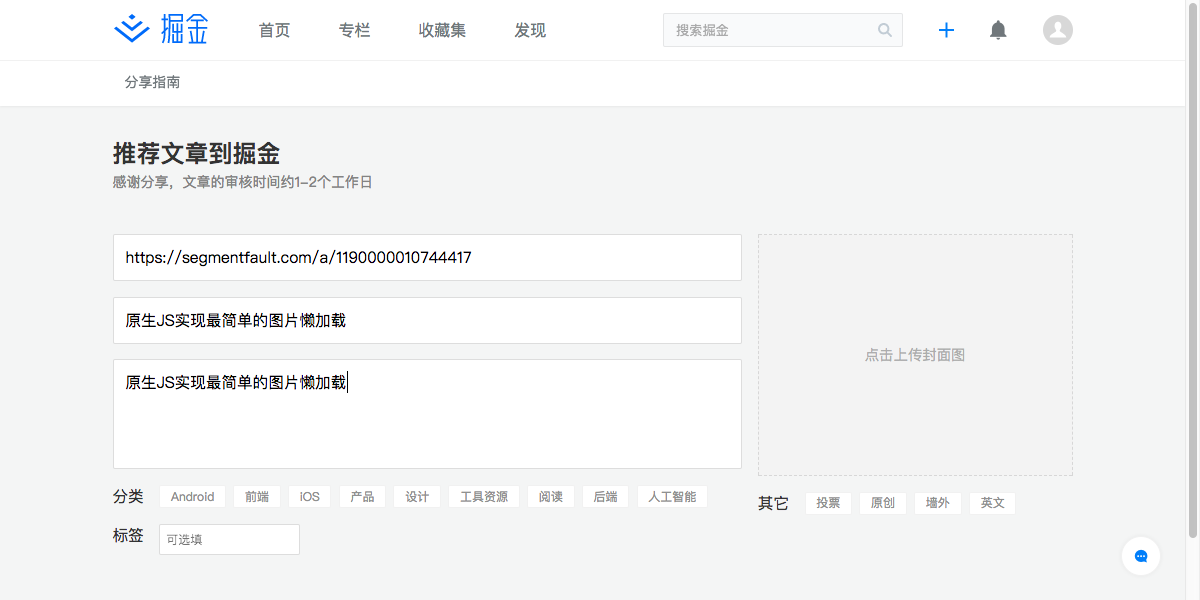
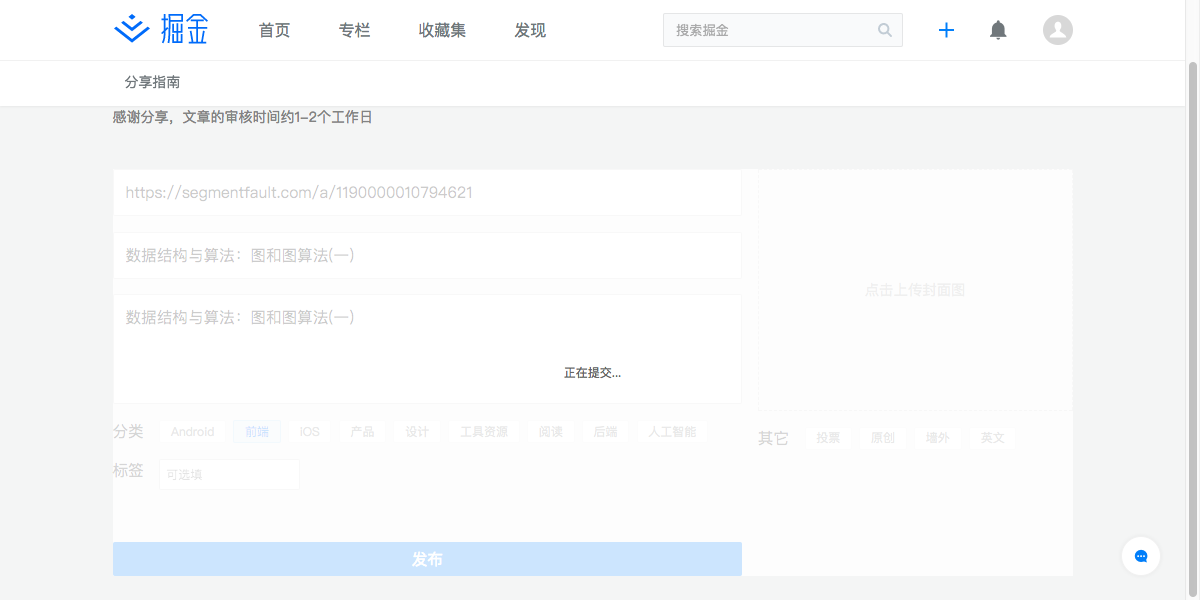
done 搬运文章

diff --git a/ui-test.js b/ui-test.js
@@ -34,13 +34,13 @@ puppeteer.launch({headless: false}).then(async browser => {
         console.log('SfFeArticleList:', SfFeArticleList);
 
         await page.screenshot({path: './sf-juejin/sf.png', type: 'png'});
-        await timeout(1000)
     } catch (e) {
         console.log('sf err:', e);
     }
 
     /** 登录juejin **/
     try {
+        await timeout(1000)
         await page.goto('https://juejin.im')
         await timeout(1000)
 
@@ -51,12 +51,12 @@ puppeteer.launch({headless: false}).then(async browser => {
         var loginPhoneOrEmail = await page.$('[name=loginPhoneOrEmail]')
         console.log('loginPhoneOrEmail:', loginPhoneOrEmail);
         await loginPhoneOrEmail.click()
-        await page.type('18516697699@163.com', {delay: 50})
+        await page.type('18516697699@163.com', {delay: 20})
 
         var password = await page.$('[placeholder=请输入密码]')
         console.log('password:', password);
         await password.click()
-        await page.type('123456', {delay: 50})
+        await page.type('123456', {delay: 20})
 
         var authLogin = await page.$('.panel .btn')
         console.log('authLogin:', authLogin);
@@ -77,13 +77,24 @@ puppeteer.launch({headless: false}).then(async browser => {
 
         var shareUrl = await page.$('.entry-form-input .url-input')
         await shareUrl.click()
-        await page.type(theArtile.href, {delay: 50})
+        await page.type(theArtile.href, {delay: 20})
 
         await page.press('Tab')
-        await page.type(theArtile.title)
+        await page.type(theArtile.title, {delay: 20})
 
         await page.press('Tab')
-        await page.type(theArtile.title)
+        await page.type(theArtile.title, {delay: 20})
+
+        await page.evaluate(() => {
+          let li = [...document.querySelectorAll('.category-list-box .category-list .item')]
+          li.forEach(el => {
+            if (el.innerText == '前端')
+              el.click()
+          })
+        })
+
+        var submitBtn = await page.$('.submit-btn')
+        await submitBtn.click()
 
     } catch (e) {
         await page.screenshot({path: './sf-juejin/err.png', type: 'png'});
